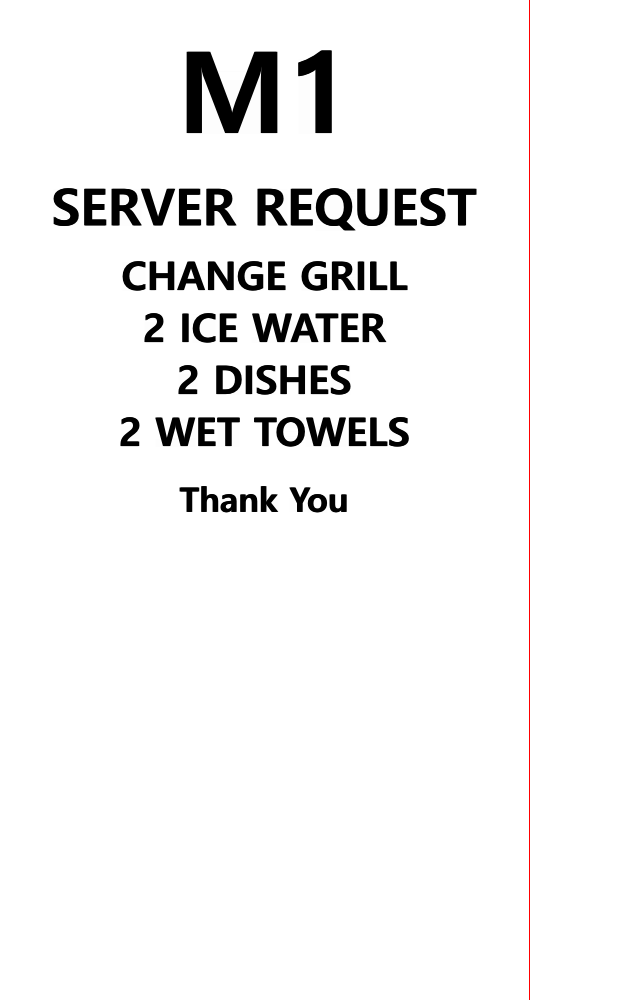
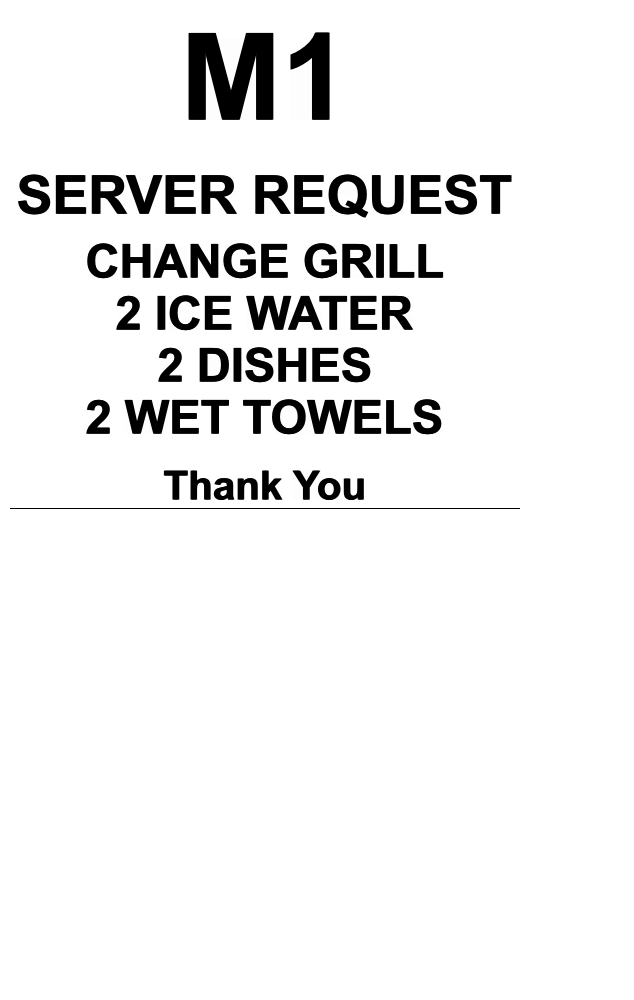
Font를 디폴트 arial로 변경함. printable영역 표시는 빠짐

Changed region(s): [[0.03, 0.031, 0.8091, 0.527]]

diff --git a/src/main.rs b/src/main.rs
@@ -21,10 +21,17 @@ struct PrintConfig {
     print_scale: f32,
 }
 
+#[derive(Copy, Clone)]
+enum TextAlign {
+    Left,
+    Center,
+    Right,
+}
+
 fn main() -> Result<(), Error> {
     let config = PrintConfig {
         image_scale: 1.0,
-        print_scale: PRINTABLE_WIDTH as f32 / CANVAS_WIDTH as f32, // 프린트 시 스케일 조정
+        print_scale: PRINTABLE_WIDTH as f32 / CANVAS_WIDTH as f32,
     };
 
     let width = CANVAS_WIDTH;
@@ -32,83 +39,42 @@ fn main() -> Result<(), Error> {
     let mut img: RgbaImage = ImageBuffer::new(width, height);
     img.fill(255);
 
-    let font = Font::try_from_bytes(include_bytes!("C:\\Windows\\Fonts\\malgun.ttf")).unwrap();
+    let font = Font::try_from_bytes(include_bytes!("C:\\Windows\\Fonts\\arial.ttf")).unwrap();
+    // ariblk.ttf  arialbd.ttf arial.ttf
     let font_bold =
-        Font::try_from_bytes(include_bytes!("C:\\Windows\\Fonts\\malgunbd.ttf")).unwrap();
+        Font::try_from_bytes(include_bytes!("C:\\Windows\\Fonts\\arialbd.ttf")).unwrap();
+    // let font = Font::try_from_bytes(include_bytes!("C:\\Windows\\Fonts\\malgun.ttf")).unwrap();
+    // let font_bold =
+    //     Font::try_from_bytes(include_bytes!("C:\\Windows\\Fonts\\malgunbd.ttf")).unwrap();
 
     let mut y_offset = 10;
 
-    let add_text = |img: &mut RgbaImage,
-                    text: &str,
-                    size: f32,
-                    is_bold: bool,
-                    y: &mut i32,
-                    align: TextAlign,
-                    indent: i32| {
-        let scale = Scale::uniform(size * DPI / 54.0 * config.image_scale);
-        let font_to_use = if is_bold { &font_bold } else { &font };
-        let text_width = font_to_use
-            .layout(text, scale, rusttype::point(0.0, 0.0))
-            .map(|g| g.position().x + g.unpositioned().h_metrics().advance_width)
-            .last()
-            .unwrap_or(0.0);
-        let x = match align {
-            TextAlign::Left => LEFT_MARGIN + indent,
-            TextAlign::Center => ((PRINTABLE_WIDTH as f32 - text_width) / 2.0) as i32,
-            TextAlign::Right => PRINTABLE_WIDTH as i32 - text_width as i32 - RIGHT_MARGIN - indent,
-        };
-        draw_text_mut(img, Rgba([0, 0, 0, 255]), x, *y, scale, font_to_use, text);
-        draw_text_mut(
-            img,
-            Rgba([0, 0, 0, 255]),
-            x + 1,
-            *y,
-            scale,
-            font_to_use,
-            text,
-        );
-
-        // Calculate the new y_offset based on the font size
-        let line_height = (size * DPI / 54.0 * config.image_scale) as i32;
-        *y += line_height;
-    };
-
-    let add_line = |img: &mut RgbaImage, y: i32| {
-        draw_line_segment_mut(
-            img,
-            (LEFT_MARGIN as f32, y as f32),
-            ((PRINTABLE_WIDTH - RIGHT_MARGIN as u32) as f32, y as f32),
-            Rgba([0, 0, 0, 255]),
-        );
-    };
-
-    #[derive(Copy, Clone)]
-    enum TextAlign {
-        Left,
-        Center,
-        Right,
-    }
-
-    // Add receipt content with dynamic y_offset
+    // Add receipt content
     add_text(
         &mut img,
         "M1",
-        40.0,
+        36.0,
         true,
         &mut y_offset,
         TextAlign::Center,
         0,
+        &config,
+        &font,
+        &font_bold,
     );
-    y_offset += 10; // Add a little extra space after the large title
+    y_offset += 20; // Add a little extra space after the large title
 
     add_text(
         &mut img,
         "SERVER REQUEST",
-        18.0,
+        16.0,
         true,
         &mut y_offset,
         TextAlign::Center,
         0,
+        &config,
+        &font,
+        &font_bold,
     );
     y_offset += 10; // Add a little extra space after the subtitle
 
@@ -120,6 +86,9 @@ fn main() -> Result<(), Error> {
         &mut y_offset,
         TextAlign::Center,
         0,
+        &config,
+        &font,
+        &font_bold,
     );
     add_text(
         &mut img,
@@ -129,6 +98,9 @@ fn main() -> Result<(), Error> {
         &mut y_offset,
         TextAlign::Center,
         0,
+        &config,
+        &font,
+        &font_bold,
     );
     add_text(
         &mut img,
@@ -138,6 +110,9 @@ fn main() -> Result<(), Error> {
         &mut y_offset,
         TextAlign::Center,
         0,
+        &config,
+        &font,
+        &font_bold,
     );
     add_text(
         &mut img,
@@ -147,6 +122,9 @@ fn main() -> Result<(), Error> {
         &mut y_offset,
         TextAlign::Center,
         0,
+        &config,
+        &font,
+        &font_bold,
     );
 
     y_offset += 20; // Add some space before the "Thank You" message
@@ -158,33 +136,91 @@ fn main() -> Result<(), Error> {
         &mut y_offset,
         TextAlign::Center,
         0,
+        &config,
+        &font,
+        &font_bold,
     );
 
-    // 프린트 가능 영역 표시
-    for y in 0..height {
-        img.put_pixel(PRINTABLE_WIDTH as u32, y, Rgba([255, 0, 0, 255]));
-    }
+    // Add line
+    add_line(&mut img, y_offset);
 
     // Save image to file for debugging
-    let output_path = Path::new("receipt_debug.png");
-    img.save(output_path).expect("Failed to save debug image");
-    println!("Debug image saved to {:?}", output_path);
+    save_debug_image(&img, "receipt_debug.png")?;
 
     // Ask user if they want to print
-    print!("Do you want to print the receipt? (y/n): ");
-    io::stdout().flush().unwrap();
-    let mut user_input = String::new();
-    io::stdin()
-        .read_line(&mut user_input)
-        .expect("Failed to read line");
-
-    if user_input.trim().to_lowercase() == "y" {
+    if ask_to_print() {
         print_receipt(&img, &config)?;
     } else {
         println!("Printing cancelled.");
     }
 
     Ok(())
+}
+
+fn add_text(
+    img: &mut RgbaImage,
+    text: &str,
+    size: f32,
+    is_bold: bool,
+    y: &mut i32,
+    align: TextAlign,
+    indent: i32,
+    config: &PrintConfig,
+    font: &Font,
+    font_bold: &Font,
+) {
+    let scale = Scale::uniform(size * DPI / 54.0 * config.image_scale);
+    let font_to_use = if is_bold { font_bold } else { font };
+    let text_width = font_to_use
+        .layout(text, scale, rusttype::point(0.0, 0.0))
+        .map(|g| g.position().x + g.unpositioned().h_metrics().advance_width)
+        .last()
+        .unwrap_or(0.0);
+    let x = match align {
+        TextAlign::Left => LEFT_MARGIN + indent,
+        TextAlign::Center => ((PRINTABLE_WIDTH as f32 - text_width) / 2.0) as i32,
+        TextAlign::Right => PRINTABLE_WIDTH as i32 - text_width as i32 - RIGHT_MARGIN - indent,
+    };
+    draw_text_mut(img, Rgba([0, 0, 0, 255]), x, *y, scale, font_to_use, text);
+    draw_text_mut(
+        img,
+        Rgba([0, 0, 0, 255]),
+        x + 1,
+        *y,
+        scale,
+        font_to_use,
+        text,
+    );
+
+    // Calculate the new y_offset based on the font size
+    let line_height = (size * DPI / 54.0 * config.image_scale) as i32;
+    *y += line_height;
+}
+
+fn add_line(img: &mut RgbaImage, y: i32) {
+    draw_line_segment_mut(
+        img,
+        (LEFT_MARGIN as f32, y as f32),
+        ((PRINTABLE_WIDTH - RIGHT_MARGIN as u32) as f32, y as f32),
+        Rgba([0, 0, 0, 255]),
+    );
+}
+
+fn save_debug_image(img: &RgbaImage, filename: &str) -> Result<(), Error> {
+    let output_path = Path::new(filename);
+    img.save(output_path).expect("Failed to save debug image");
+    println!("Debug image saved to {:?}", output_path);
+    Ok(())
+}
+
+fn ask_to_print() -> bool {
+    print!("Do you want to print the receipt? (y/n): ");
+    io::stdout().flush().unwrap();
+    let mut user_input = String::new();
+    io::stdin()
+        .read_line(&mut user_input)
+        .expect("Failed to read line");
+    user_input.trim().to_lowercase() == "y"
 }
 
 fn print_receipt(img: &RgbaImage, config: &PrintConfig) -> Result<(), Error> {
